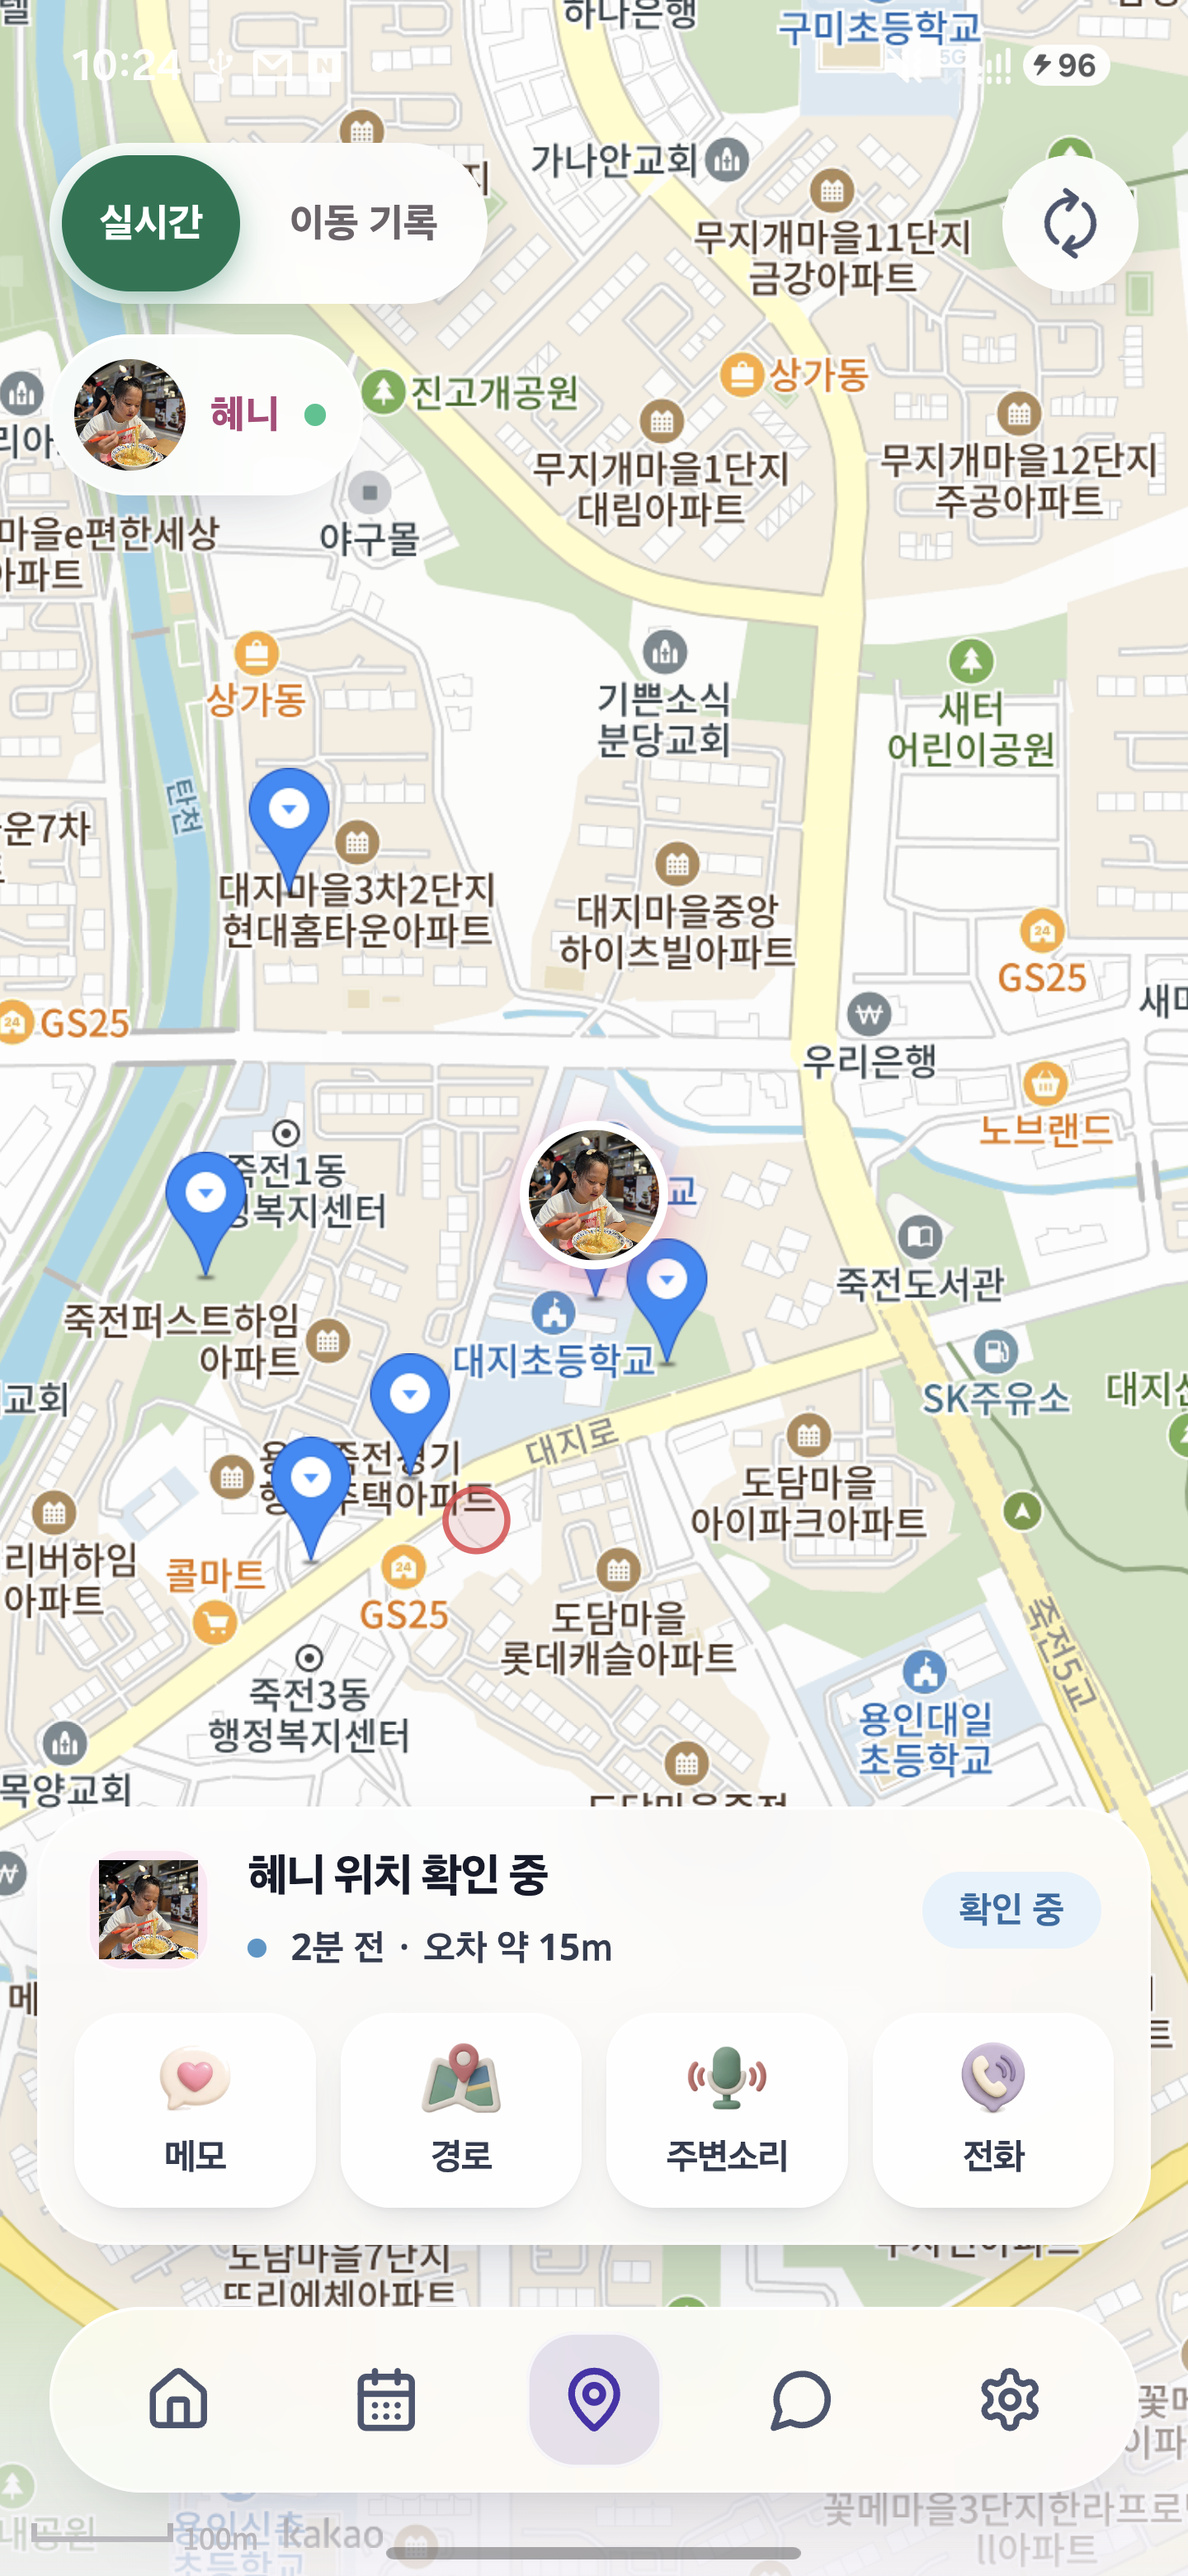
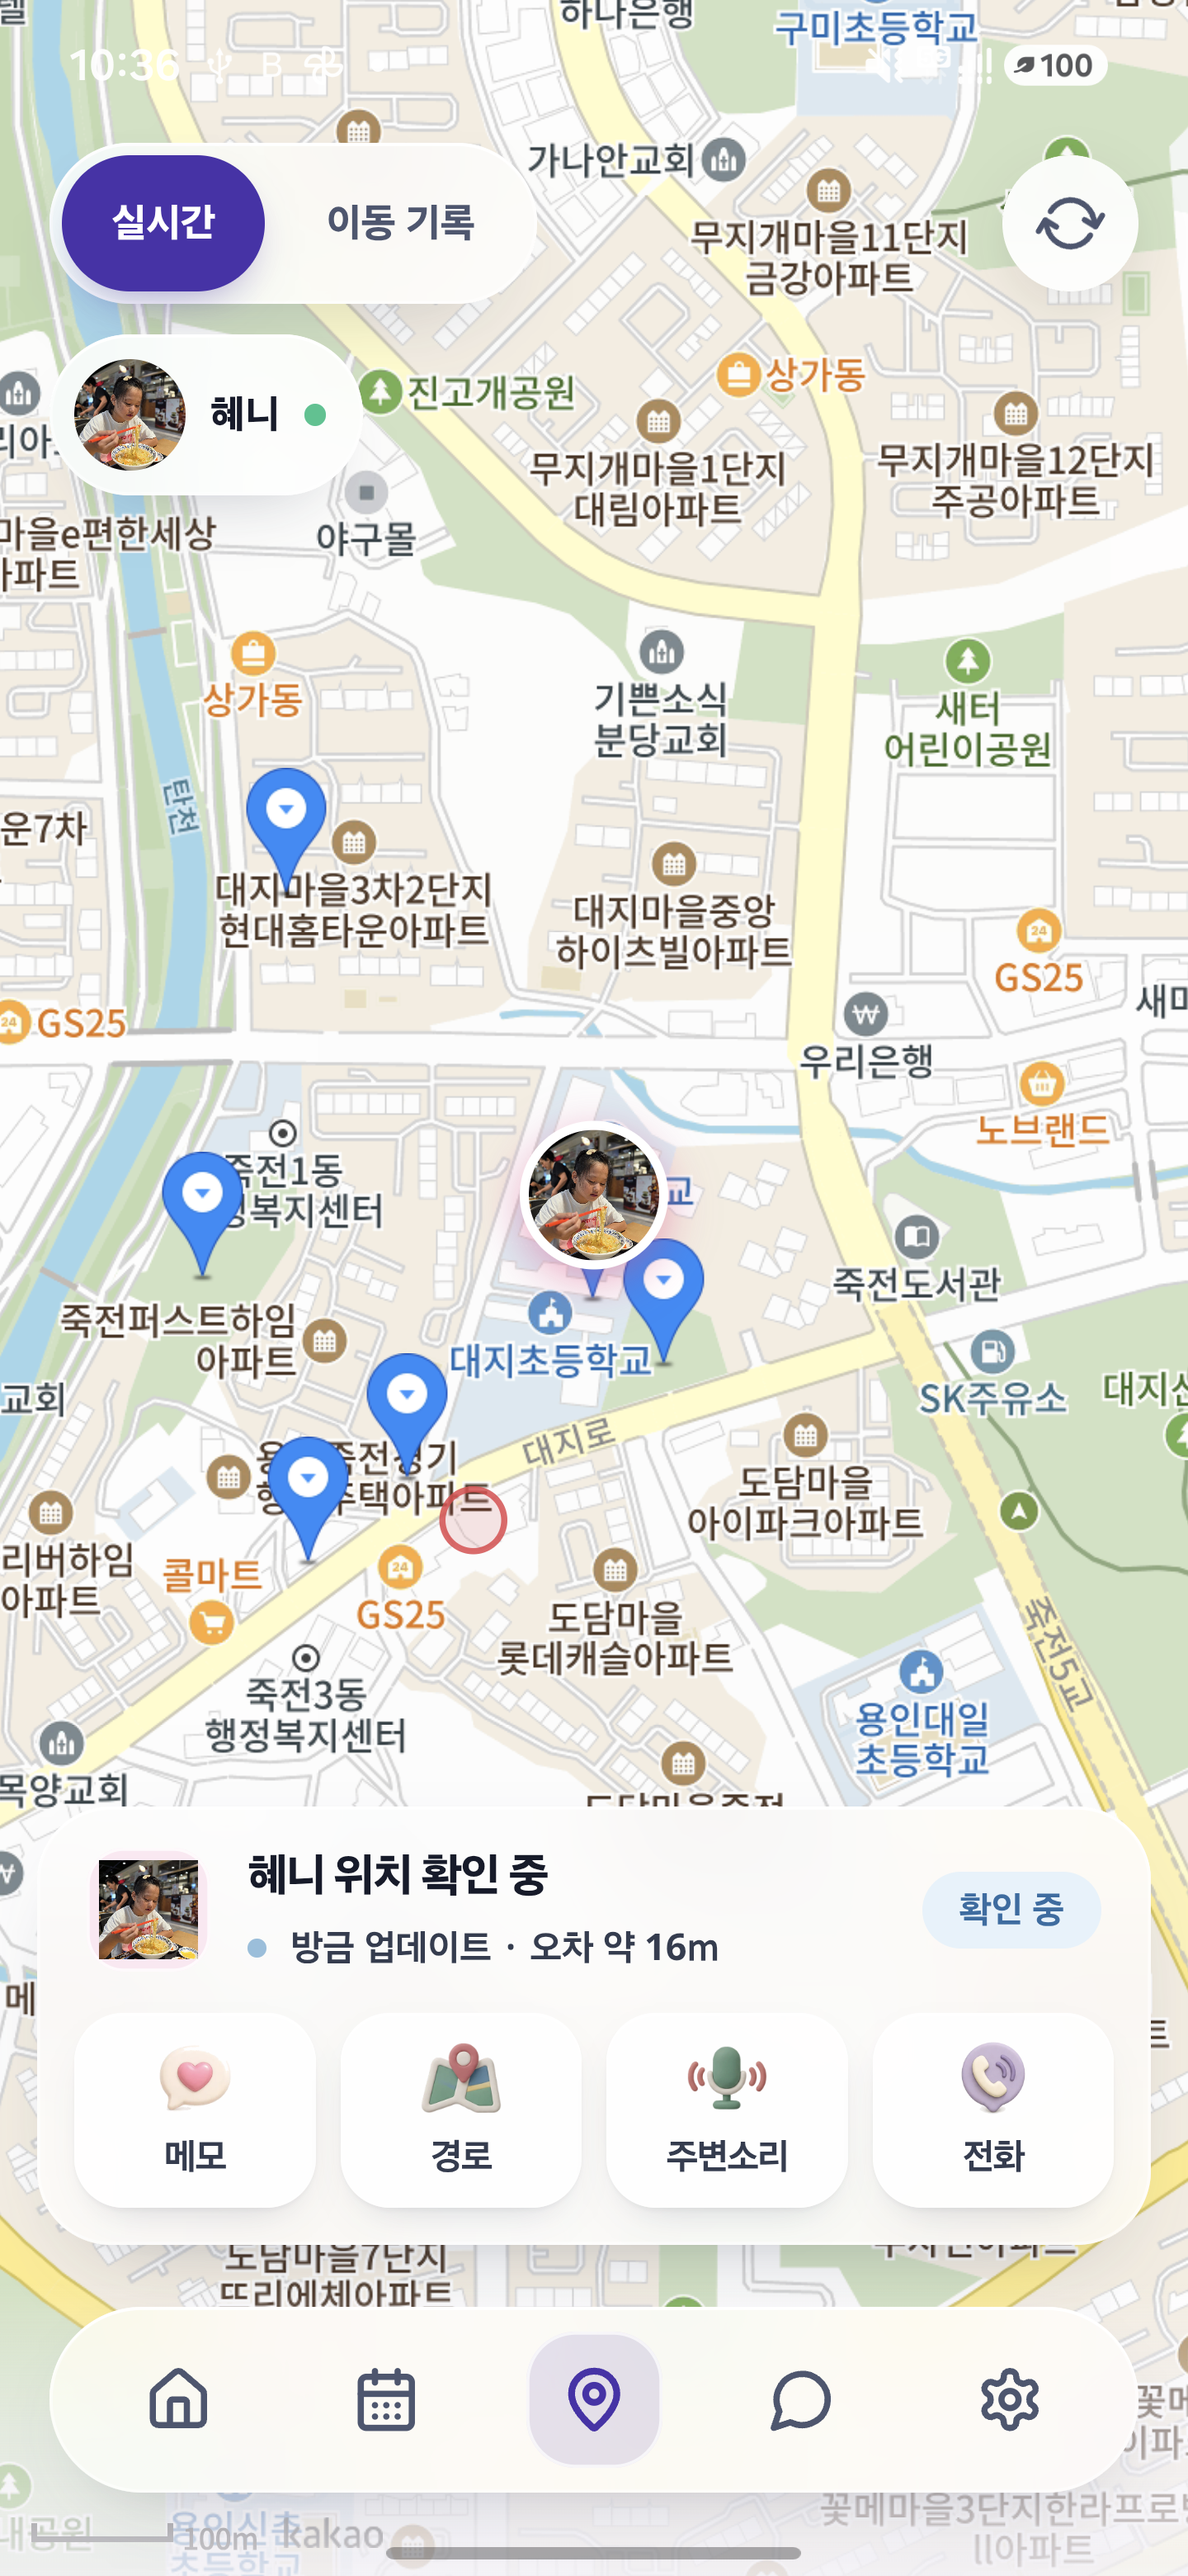
화면 헤더와 카드도 같은 유리 언어로 맞춘다
TK 제보 "바로가기 → 알림 상단바 깨짐"의 실체는 두 가지였다.
① 화면 33곳이 자기 sticky 헤더에 옛 크림색(rgba(251,247,244,.94))을 칠하고 있어
   오로라 바닥 위에서 딱딱한 사각 밴드로 남았다.
② 필터 버튼(전체·안전·위치)과 아래 '오늘' 섹션 사이 경계에서 목록 카드가
   반쯤 비쳐 보였다.

헤더는 glass.css 의 공용 목록 하나로 모았다(예외는 SOS 수신 .sr-header).
경계는 TK 지시대로 **필터를 메인 섹션(.hy-content) 안 첫 항목으로 옮겨** 없앴다 —
헤더에 둘째 줄을 붙이면 그 줄이 스크림·마스크 경계에 걸린다.

카드도 아직 불투명 흰색이라 메인의 유리 카드와 달랐다(TK 지시). semantic surface
manifest 의 role="card" 중 **무채색 카드 75개**에 공용 유리를 주고, 상태색을 띤
카드 47개(앰버 경고·민트 완료 등)는 색이 곧 의미라 그대로 뒀다. 유리판 위에 이미
얹힌 안쪽 면과 .sr-* 도 제외했다.

⚠ 함정 두 가지를 기록한다.
- **스크림·마스크 정지점은 퍼센트가 아니라 padding-bottom 과 같은 px** 로 잡는다.
  헤더 높이가 화면마다 달라 퍼센트로 잡으면 페이드 띠가 여백을 넘어 카드가 비친다.
  정본은 calc(100% - 20px) 두 곳(배경 그라데이션·mask)이다.
- **화면 CSS 에서 .hy-topbar 재질을 다시 선언하지 않는다.** 같은 특이도(0,2,0)에
  화면 파일이 뒤에 로드돼 공용 규칙을 이긴다 — .ph-page > .hy-topbar 가 옛 스크림으로
  되돌려 놓아 부모 홈에서만 내용이 브랜드 줄 뒤로 비쳤다. 그 규칙과 이제 쓸모없는
  .ph-page > * 레이어 규칙을 함께 삭제했다.
- --bg-page 로 칠하던 카드도 유리 대상에 넣어야 한다. 그 토큰은 이제 오로라 바닥색이라
  두면 카드가 바닥에 묻혀 사라진다(.ts-row 실측).

함께 정리한 것: 위치 시트의 '확인 중'·지연 배지를 채워진 알약에서 점 + 조용한 글자로
바꿔 홈의 상태 표시와 같은 규칙(원칙 ④)을 따르게 했다.

검증: typecheck·production build(JS 341,977/500,000 · CSS 43,219/44,000 ·
PWA precache 중복 없음), 앱 전체 회귀 1,814개 전부 통과. S25(R5CY521CFNZ)에
adb install -r 로 데이터 보존 설치해 알림·부모 홈·위치를 실기기에서 확인했고,
알림 카드 대비를 프레임버퍼 픽셀로 실측했다(제목 15.4:1 · 본문 6.55:1). crash·ANR 0건.

CLAUDE.md 에 커밋 242cca0 메시지의 "전환 색상 미설치" 문구가 사실과 다르다는 정정
기록도 함께 남겼다(푸시 직후 재연결되어 설치·확인을 마쳤다).

미검증: A17·razr 미연결. Worker/Pages 는 배포하지 않았다.
[…]

diff --git a/src/styles/glass.css b/src/styles/glass.css
@@ -172,16 +172,19 @@
      덮고 마지막 구간만 오로라로 녹아든다. */
   background: linear-gradient(
     180deg,
-    rgba(242, 242, 251, 0.97) 0%,
-    rgba(242, 242, 251, 0.95) 62%,
+    rgba(242, 242, 251, 0.97) 0,
+    rgba(242, 242, 251, 0.96) calc(100% - 20px),
     rgba(242, 242, 251, 0) 100%
   );
   backdrop-filter: blur(24px) saturate(150%);
   -webkit-backdrop-filter: blur(24px) saturate(150%);
   /* ⚠ backdrop-filter 는 요소 상자에서 잘려 아래쪽에 딱딱한 경계선을 만든다.
-     마스크로 블러를 함께 페이드시켜야 오로라와 이어진다. */
-  mask-image: linear-gradient(180deg, #000 0%, #000 74%, rgba(0, 0, 0, 0) 100%);
-  -webkit-mask-image: linear-gradient(180deg, #000 0%, #000 74%, rgba(0, 0, 0, 0) 100%);
+     마스크로 블러를 함께 페이드시켜야 오로라와 이어진다.
+     ⚠ 페이드 띠는 퍼센트가 아니라 padding-bottom 과 같은 px 로 잡는다 —
+     헤더 높이가 화면마다 달라 퍼센트로 잡으면 띠가 여백을 넘어
+     아래 목록 카드가 반쯤 비친다(2026-08-21 실측). */
+  mask-image: linear-gradient(180deg, #000 0, #000 calc(100% - 20px), rgba(0, 0, 0, 0) 100%);
+  -webkit-mask-image: linear-gradient(180deg, #000 0, #000 calc(100% - 20px), rgba(0, 0, 0, 0) 100%);
 }
 
 .hy-adult .hy-topbar__title {
@@ -379,21 +382,35 @@
 }
 
 /* 화면별 sticky 헤더도 상단바와 같은 서리 스크림을 쓴다.
-   (개별 화면이 자기 색 그라데이션을 헤더에 칠하고 있었다) */
+   ⚠ 이 목록은 '어른 화면의 sticky 헤더 전수'다(2026-08-21 실측 33곳).
+      새 화면이 자기 헤더에 배경을 칠하면 오로라 위에서 딱딱한 밴드로 남으므로
+      여기에 등록하거나 아예 배경을 칠하지 않아야 한다.
+   ⚠ 예외: .sr-header(SOS 수신)는 붉은 긴급 화면의 일부라 건드리지 않는다. */
 .hy-adult :is(
-  .ais-header, .cdd-header, .dr-header, .raa-header, .wr-header, .ps-head, .mc-header
+  .ais-header, .cdd-header, .dr-header, .raa-header,
+  .wr-header, .ps-head, .mc-header, .ac-header,
+  .aa-header, .ci-header, .da-header, .dzf-header,
+  .ds-head, .ds-header, .fc-header, .fb-header,
+  .fp-header, .lset-header, .ls-header, .nc-header,
+  .pw-header, .psu-header, .pf-header, .pm-header,
+  .pa-header, .pa-head, .pe-header, .rv-header,
+  .sub-header, .sup-header, .tl-head, .cd-header,
+  .ef-header, .pc-header, .th-topbar, .tn-header,
+  .ts-header, .tt-topbar
 ) {
   border-bottom: 0;
+  /* 마스크가 아래 26%를 지우므로 내용이 그 안에 들어오지 않게 여백을 확보한다. */
+  padding-bottom: 20px;
   background: linear-gradient(
     180deg,
-    rgba(242, 242, 251, 0.97) 0%,
-    rgba(242, 242, 251, 0.95) 62%,
+    rgba(242, 242, 251, 0.97) 0,
+    rgba(242, 242, 251, 0.96) calc(100% - 20px),
     rgba(242, 242, 251, 0) 100%
   );
   backdrop-filter: blur(24px) saturate(150%);
   -webkit-backdrop-filter: blur(24px) saturate(150%);
-  mask-image: linear-gradient(180deg, #000 0%, #000 74%, rgba(0, 0, 0, 0) 100%);
-  -webkit-mask-image: linear-gradient(180deg, #000 0%, #000 74%, rgba(0, 0, 0, 0) 100%);
+  mask-image: linear-gradient(180deg, #000 0, #000 calc(100% - 20px), rgba(0, 0, 0, 0) 100%);
+  -webkit-mask-image: linear-gradient(180deg, #000 0, #000 calc(100% - 20px), rgba(0, 0, 0, 0) 100%);
 }
 
 /* 섹션 사이 여백은 카드가 자기 padding 을 가지므로 12px 이면 충분하다.
@@ -428,4 +445,72 @@
 .hy-adult .hy-tab:focus-visible .hy-tab__icon {
   outline: 2px solid color-mix(in srgb, var(--ph-link) 60%, transparent);
   outline-offset: 2px;
+}
+
+
+
+
+/* ══════════════════════════════════════════════════════════════════════════
+   어른 화면의 흰 카드도 같은 유리로 (2026-08-21 TK 제보: 알림 오늘/어제 카드가
+   메인의 유리 카드와 달랐다).
+   목록 정본은 semantic surface manifest 의 role="card" 중 **무채색 카드**다 —
+   상태색을 띤 카드(앰버 경고·민트 완료)는 색이 곧 의미라 그대로 두고,
+   유리판 위에 이미 얹힌 안쪽 면과 SOS 수신(.sr-*)은 제외한다.
+   ⚠ --bg-page 로 칠한 카드도 포함한다 — 그 토큰은 이제 오로라 바닥색이라
+      그대로 두면 카드가 바닥에 묻혀 사라진다.
+   ══════════════════════════════════════════════════════════════════════════ */
+.hy-adult :is(
+  .aa-item, .ac-auto, .ac-control-row, .ac-detail,
+  .ac-pack, .ais-academy-intro, .ais-mode-intro, .ais-result,
+  .au-card, .cd-danger, .cd-row, .cd-stat,
+  .da-item, .ds-card, .ds-panel, .ds-quote,
+  .ds-row, .dzf-toggles, .fb-ideas__card, .fb-satis,
+  .fc-device, .fc-invite, .fp-card, .fp-connected,
+  .fp-setting, .ls-card, .ls-last, .lset-row,
+  .nc-item, .nst-list, .ob-connect-card, .ob-perm,
+  .ob-role-card--parent, .ob-survey-card, .pa-action, .pa-card,
+  .pc-card, .pc-event__card, .pc-sheet__row, .pd-card,
+  .pf-child, .pf-conn, .pf-paircode__card, .pf-parents,
+  .pm-danger, .pm-item, .ps-list, .psu-card,
+  .pw-childcard, .pw-summary, .rrp__code, .rrp__progress,
+  .rrp__state, .rv-empty, .rv-fallback, .rv-info,
+  .rv-steps, .sqs-card, .sqs-inline-empty, .sub-benefits,
+  .sub-cancel, .sub-plan, .sub-web-unavailable, .sup-card,
+  .sup-status, .th-empty, .th-tile, .tl-lock,
+  .tl-perks, .tn-empty, .tn-reflect, .trg-card,
+  .ts-empty, .ts-row, .tt-empty
+) {
+  border: 0;
+  background: var(--ph-glass-fill);
+  box-shadow: var(--ph-panel-shadow);
+  backdrop-filter: var(--ph-glass-blur);
+  -webkit-backdrop-filter: var(--ph-glass-blur);
+}
+
+@media (prefers-reduced-transparency: reduce) {
+  .hy-adult :is(
+  .aa-item, .ac-auto, .ac-control-row, .ac-detail,
+  .ac-pack, .ais-academy-intro, .ais-mode-intro, .ais-result,
+  .au-card, .cd-danger, .cd-row, .cd-stat,
+  .da-item, .ds-card, .ds-panel, .ds-quote,
+  .ds-row, .dzf-toggles, .fb-ideas__card, .fb-satis,
+  .fc-device, .fc-invite, .fp-card, .fp-connected,
+  .fp-setting, .ls-card, .ls-last, .lset-row,
+  .nc-item, .nst-list, .ob-connect-card, .ob-perm,
+  .ob-role-card--parent, .ob-survey-card, .pa-action, .pa-card,
+  .pc-card, .pc-event__card, .pc-sheet__row, .pd-card,
+  .pf-child, .pf-conn, .pf-paircode__card, .pf-parents,
+  .pm-danger, .pm-item, .ps-list, .psu-card,
+  .pw-childcard, .pw-summary, .rrp__code, .rrp__progress,
+  .rrp__state, .rv-empty, .rv-fallback, .rv-info,
+  .rv-steps, .sqs-card, .sqs-inline-empty, .sub-benefits,
+  .sub-cancel, .sub-plan, .sub-web-unavailable, .sup-card,
+  .sup-status, .th-empty, .th-tile, .tl-lock,
+  .tl-perks, .tn-empty, .tn-reflect, .trg-card,
+  .ts-empty, .ts-row, .tt-empty
+  ) {
+    background: #fff;
+    backdrop-filter: none;
+    -webkit-backdrop-filter: none;
+  }
 }

diff --git a/src/screens/feature/Notifications.tsx b/src/screens/feature/Notifications.tsx
@@ -167,24 +167,26 @@ export function Notifications() {
         </button>
       </header>
 
-      {hasAlerts && (
-        <div className="nc-filters">
-          {chips.map((k) => (
-            <button
-              key={k}
-              type="button"
-              className={`nc-filter hy-press${filter === k ? " nc-filter--active" : ""}`}
-              aria-pressed={filter === k}
-              onClick={() => setFilter(k)}
-            >
-              {intl.formatMessage({ id: FILTER_LABEL_ID[k] })}
-              <span className="nc-filter__count">{intl.formatNumber(counts[k])}</span>
-            </button>
-          ))}
-        </div>
-      )}
 
       <div className="hy-content nc-list">
+        {/* 필터는 메인 섹션 안에 둔다 — sticky 헤더에 붙이면 그 경계에서
+            목록 카드가 반쯤 비쳐 보인다(2026-08-21 TK 지시). */}
+        {hasAlerts && (
+          <div className="nc-filters">
+            {chips.map((k) => (
+              <button
+                key={k}
+                type="button"
+                className={`nc-filter hy-press${filter === k ? " nc-filter--active" : ""}`}
+                aria-pressed={filter === k}
+                onClick={() => setFilter(k)}
+              >
+                {intl.formatMessage({ id: FILTER_LABEL_ID[k] })}
+                <span className="nc-filter__count">{intl.formatNumber(counts[k])}</span>
+              </button>
+            ))}
+          </div>
+        )}
         {isLoading && (
           <div className="nc-state">
             <Loading label={intl.formatMessage({ id: "notifications.center.loading" })} />

diff --git a/src/screens/parent/ParentLocation.redesign.css b/src/screens/parent/ParentLocation.redesign.css
@@ -358,3 +358,57 @@
 .pl-root .pl-chip--active {
   border-color: transparent;
 }
+
+/* ── 시트 머리의 상태 칩 ─────────────────────────────────────────────────
+   '확인 중'·경과 시간은 상태이지 조작이 아니다. 채워진 알약을 벗기고
+   원칙 ④대로 점 + 조용한 글자로 말한다(색은 점이 낸다). */
+.pl-root .pl-sheet__dur {
+  display: inline-flex;
+  align-items: center;
+  gap: 8px;
+  min-width: 0;
+  padding: 0;
+  border-radius: 0;
+  background: transparent;
+  color: var(--ph-ink-3);
+}
+
+.pl-root .pl-sheet__dur::before {
+  content: "";
+  width: 6px;
+  height: 6px;
+  border-radius: 50%;
+  flex: none;
+  background: var(--mint-500);
+}
+
+/* 갱신 중은 '지금 확인하고 있다'는 진행 상태라 점 색만 바꾼다. */
+.pl-root .pl-sheet__dur--loading {
+  min-width: 0;
+  background: transparent;
+  color: var(--ph-ink-3);
+}
+
+.pl-root .pl-sheet__dur--loading::before {
+  background: var(--blue-500);
+}
+
+/* 지연 안내(Free)도 같은 규칙 — 다만 '주의'라 점만 앰버로 남긴다. */
+.pl-root .pl-delay-badge {
+  display: inline-flex;
+  align-items: center;
+  gap: 8px;
+  padding: 0;
+  border-radius: 0;
+  background: transparent;
+  color: var(--ph-ink-3);
+}
+
+.pl-root .pl-delay-badge::before {
+  content: "";
+  width: 6px;
+  height: 6px;
+  border-radius: 50%;
+  flex: none;
+  background: var(--gold-600);
+}

diff --git a/src/screens/parent/ParentHome.css b/src/screens/parent/ParentHome.css
@@ -306,10 +306,6 @@
   /* 배경 색 블롭을 만들지 않는다. */
   background: none;
 }
-.ph-page > * {
-  position: relative;
-  z-index: 1;
-}
 .ph-frost--stack {
   display: flex;
   flex-direction: column;
@@ -1329,17 +1325,8 @@
   background: none;
 }
 
-/* 홈의 일반 자식 레이어 규칙이 공용 sticky를 덮지 않도록 상단바를 다시 고정한다. */
-.ph-page > .hy-topbar {
-  position: sticky;
-  top: 0;
-  z-index: 50;
-  padding: calc(env(safe-area-inset-top, 0px) + 20px) 20px 12px;
-  background: color-mix(in srgb, var(--bg-app) 94%, transparent);
-  border-bottom: 1px solid color-mix(in srgb, var(--blue-500) 8%, transparent);
-  backdrop-filter: blur(18px) saturate(135%);
-  -webkit-backdrop-filter: blur(18px) saturate(135%);
-}
+/* 상단바는 공용 .hy-topbar(components.css + glass.css) 그대로 쓴다.
+   화면 CSS 에서 재질·여백을 다시 선언하면 같은 특이도에 뒤에 로드돼 공용 규칙을 이긴다. */
 
 .ph-page .hy-iconbtn,
 .ph-stickerbtn {

diff --git a/src/screens/feature/Notifications.css b/src/screens/feature/Notifications.css
@@ -5,7 +5,7 @@
   animation: hy-fadein 0.35s ease forwards;
 }
 
-/* ── 상단 헤더 (sticky) ─────────────────────────────────────────────────── */
+/* ── 상단 헤더 (sticky) — 재질은 glass.css 정본이 정한다 ───────────────── */
 .nc-header {
   position: sticky;
   top: 0;
@@ -14,8 +14,6 @@
   display: flex;
   align-items: center;
   gap: 8px;
-  background: rgba(251, 247, 244, 0.94);
-  backdrop-filter: blur(10px);
 }
 .nc-back {
   --press: 0.9;
@@ -176,7 +174,9 @@
 .nc-filters {
   display: flex;
   gap: 8px;
-  padding: 4px 16px 4px;
+  /* 목록 안으로 들어왔으므로 좌우 여백은 .hy-content 가 맡는다. */
+  padding: 0;
+  margin-bottom: 4px;
   overflow-x: auto;
   scrollbar-width: none;
 }
